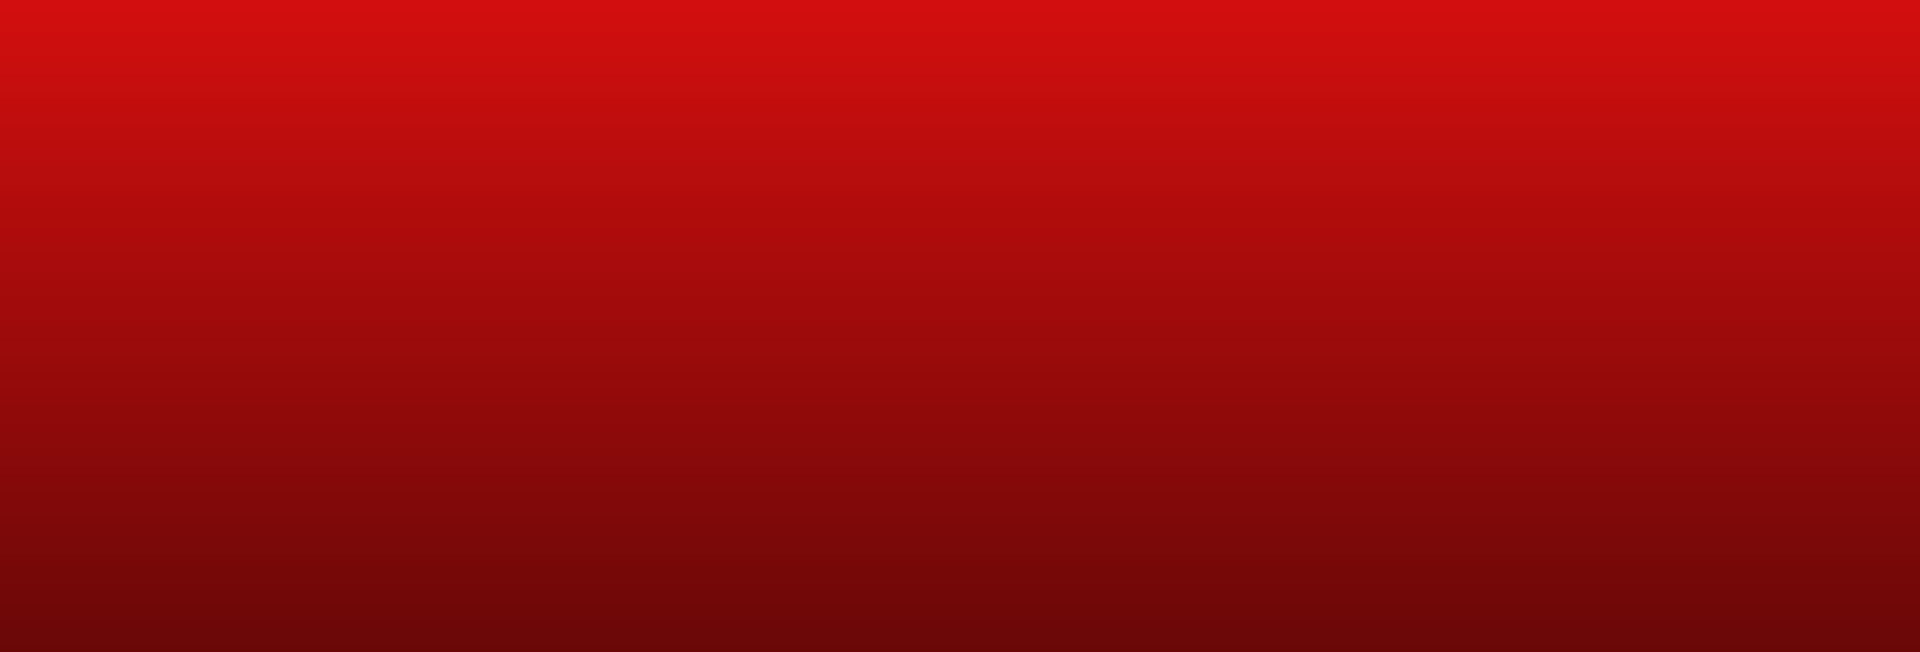
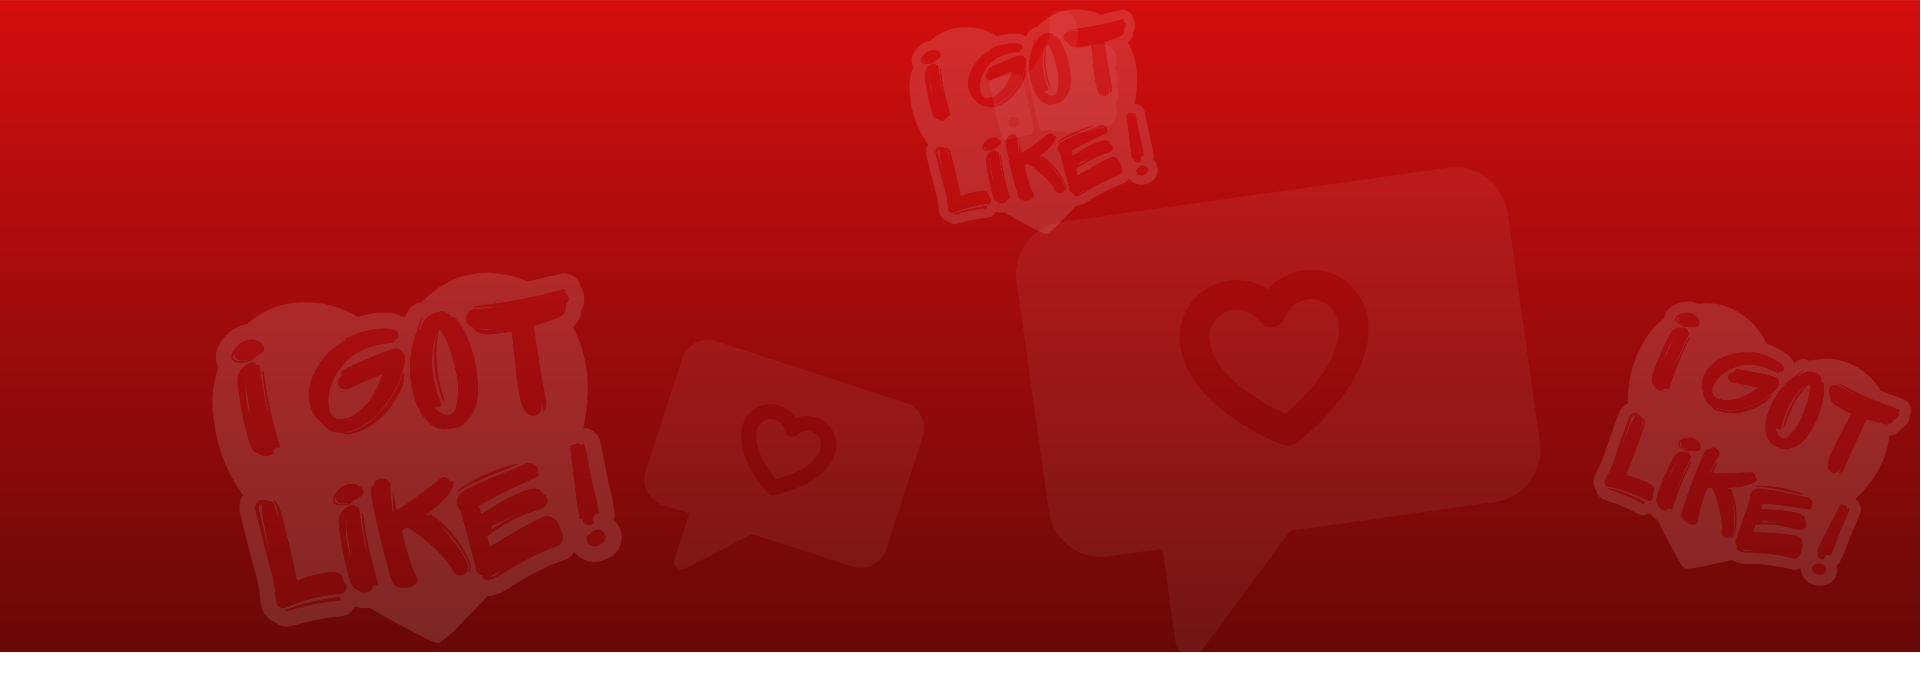
style.css and add news img

Changed region(s): [[0.0, 0.3988, 1.0, 1.0], [0.8125, 0.4294, 1.0, 0.8896], [0.4688, 0.0, 0.625, 0.3374]]

diff --git a/css/style.css b/css/style.css
@@ -27033,7 +27033,8 @@ body {
   width: 100%;
   display: flex;
   align-items: center;
-  background: url("../public/img/bg-landing-igl.png") no-repeat center/cover;
+  background: url("../public/img/bg-landing-igl.png") no-repeat center;
+  background-attachment: fixed;
 }
 
 .landing-new .ln-header .text_img {
@@ -27503,13 +27504,41 @@ body {
   content: '';
 }
 .landing-new .ln-text-ico .map_app {
-  color: #fff;
   padding: 10rem 0;
+  background: url(../public/img/bg-landing-nf.png);
+  background-attachment: fixed;
+  color: #fff;
 }
+
+.landing-new .ln-text-ico .map_app img{
+  transition: 1s;
+  cursor: pointer;
+}
+
+.landing-new .ln-text-ico .map_app img:hover{
+  transform: rotate(10deg);
+}
+
+.landing-new .ln-text-ico .world-map {
+  position: relative;
+  background: url(../public/img/bg-landing-maplocator.png) no-repeat center/cover;
+  background-attachment: fixed;
+}
+
+.landing-new .ln-text-ico .world-map img{
+  transition: 1s;
+  cursor: pointer;
+}
+
+.landing-new .ln-text-ico .world-map img:hover{
+  transform: rotateY(35deg);
+}
+
 .landing-new .ln-text-ico .yellow {
-  background: url("../public/img/bg-landing-igl2.png") no-repeat center/cover;
   position: relative;
   height: 650px;
+  background: url("../public/img/bg-landing-igl2.png") no-repeat center/cover;
+  background-attachment: fixed;
 }
 
 .landing-new .ln-text-ico .yellow svg {
